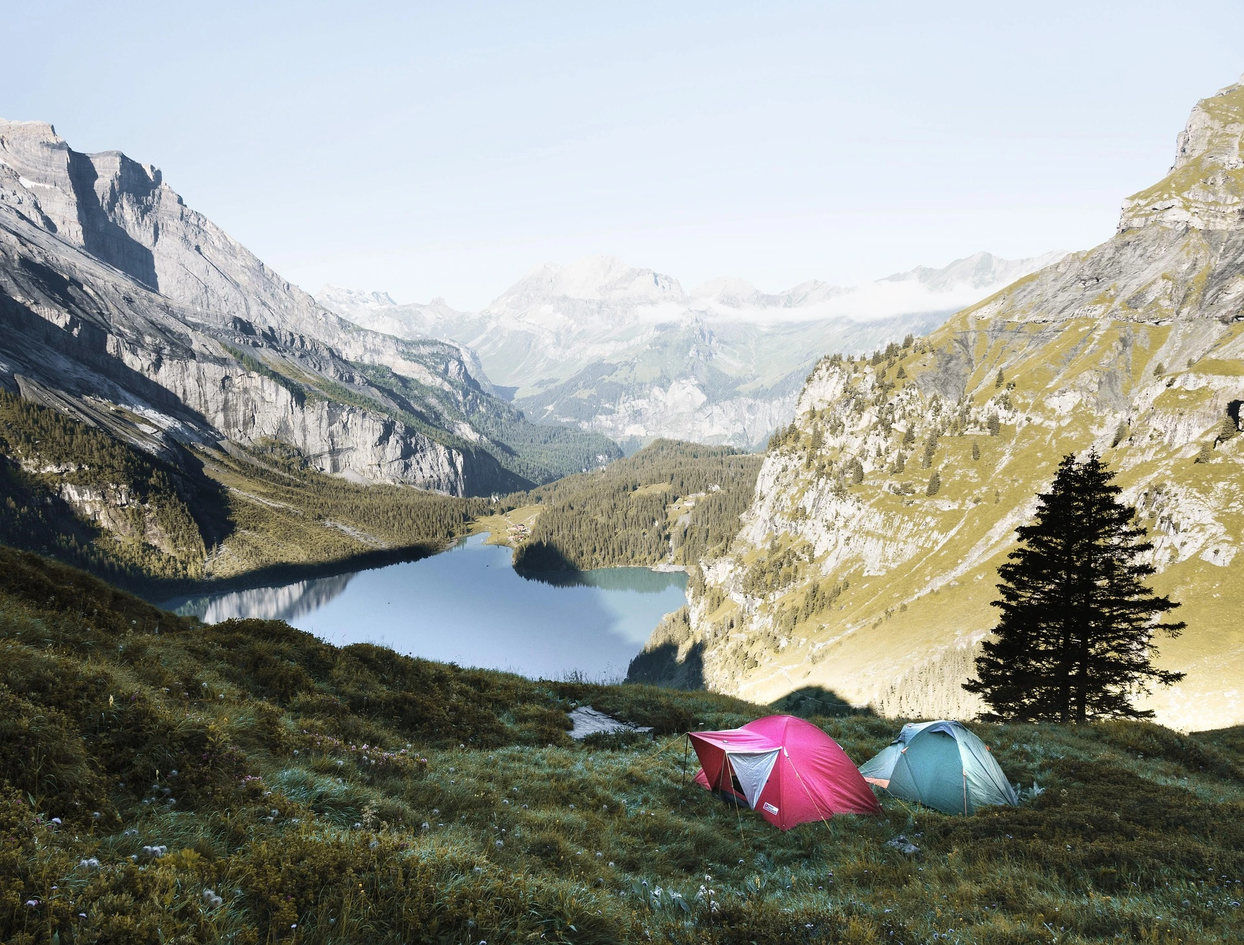
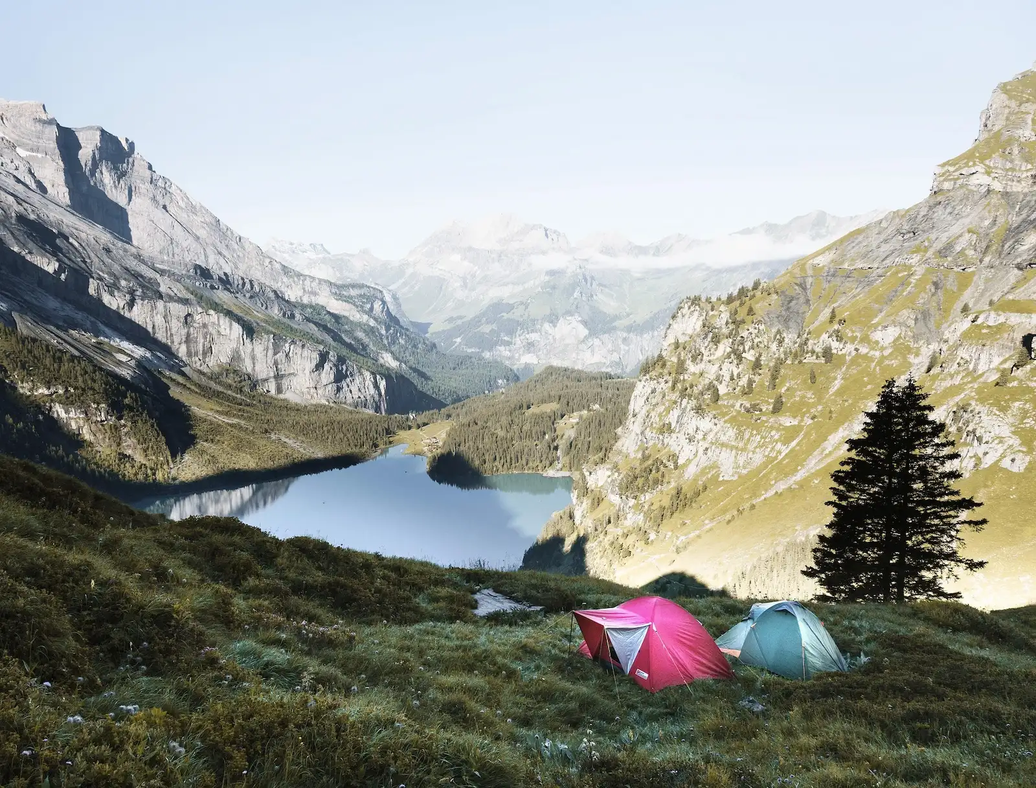
Converted images to WEBP and reduced sizes

Changed region(s): [[0.8125, 0.4688, 0.9375, 0.7812], [0.7812, 0.6875, 0.8438, 0.75]]

diff --git a/prepare.html b/prepare.html
@@ -4,12 +4,15 @@
 <head>
     <meta charset="UTF-8">
     <meta name="viewport" content="width=device-width, initial-scale=1.0">
+    <!-- Preconnect third-party origins -->
+    <link rel="preconnect" href="https://cdn.jsdelivr.net" crossorigin>
+    <link rel="preconnect" href="https://ka-f.fontawesome.com" crossorigin>
     <!-- Boost SEO -->
     <meta name="description"
   content="Beginner-friendly camping guide for first-time campers in the UK. Learn what to pack, campsite rules, and how to prepare.">
     <title>Go Camping / Home</title>
     <!-- Favicon -->
-    <link rel="icon" type="img/png" href="assets/logo/favicon-96x96.png">
+    <link rel="icon" type="img/webp" href="assets/logo/favicon-96x96.webp">
 
     <!-- Bootstrap CSS link -->
     <link href="https://cdn.jsdelivr.net/npm/bootstrap@5.3.8/dist/css/bootstrap.min.css" rel="stylesheet"
@@ -27,7 +30,7 @@
             <div class="container">
                 <!-- Make the logo a link to the home page -->
                 <a class="navbar-brand" href="index.html">
-                    <img src="assets/logo/Go_Camping_logo.png" alt="Go Camping logo" width="52"
+                    <img src="assets/logo/Go_Camping_logo_52x52.webp" alt="Go Camping logo" width="52"
                         class="d-inline-block align-text-top">
                 </a>
                 <button class="navbar-toggler" type="button" data-bs-toggle="collapse" data-bs-target="#navbarNav"
@@ -69,7 +72,7 @@
                 <div class="carousel-inner hero text_shadow">
                     <!-- Carousel item 1 -->
                     <div class="carousel-item active">
-                        <img src="assets/img/carousel-1.webp" class="d-block w-100" loading="eager" alt="Man relaxing in a hammock">
+                        <img src="assets/img/carousel-1-1200px.webp" width="400" height="600" class="d-block w-100" loading="lazy" alt="Man relaxing in a hammock">
                         <div class="carousel-caption d-flex flex-column justify-content-center align-items-center h-100">
                             <h2>Plan Your Perfect Camping Trip</h2>
                             <p>We will help you plan with confidence.</p>
@@ -77,7 +80,7 @@
                     </div>
                     <!-- Carousel item 2 -->
                     <div class="carousel-item">
-                        <img src="assets/img/carousel-2.webp" class="d-block w-100" alt="Tents on a camping site">
+                        <img src="assets/img/carousel-2-1200px.webp" width="400" height="600" class="d-block w-100" alt="Tents on a camping site">
                         <div class="carousel-caption d-flex flex-column justify-content-center align-items-center h-100">
                             <h2>Pack Smart, Camp Better</h2>
                             <p>Everything you need to know about gear, food, and safety—so nothing gets left
@@ -86,7 +89,7 @@
                     </div>
                     <!-- Carousel item 3 -->
                     <div class="carousel-item">
-                        <img src="assets/img/carousel-3.webp" class="d-block w-100" alt="Tent on the beach">
+                        <img src="assets/img/carousel-3-1200px.webp" width="400" height="600" class="d-block w-100" alt="Tent on the beach">
                         <div class="carousel-caption d-flex flex-column justify-content-center align-items-center h-100">
                             <h2>Discover the Best Spots</h2>
                             <p>From hidden gems to popular campsites, find places that match your adventure

diff --git a/index.html b/index.html
@@ -4,12 +4,15 @@
 <head>
     <meta charset="UTF-8">
     <meta name="viewport" content="width=device-width, initial-scale=1.0">
+    <!-- Preconnect third-party origins -->
+    <link rel="preconnect" href="https://cdn.jsdelivr.net" crossorigin>
+    <link rel="preconnect" href="https://ka-f.fontawesome.com" crossorigin>
     <!-- Boost SEO -->
     <meta name="description"
   content="Beginner-friendly camping guide for first-time campers in the UK. Learn what to pack, campsite rules, and how to prepare.">
     <title>Go Camping / Home</title>
     <!-- Favicon -->
-    <link rel="icon" type="img/png" href="assets/logo/favicon-96x96.png">
+    <link rel="icon" type="img/webp" href="assets/logo/favicon-96x96.webp">
     <!-- Bootstrap CSS link -->
     <link href="https://cdn.jsdelivr.net/npm/bootstrap@5.3.8/dist/css/bootstrap.min.css" rel="stylesheet"
         integrity="sha384-sRIl4kxILFvY47J16cr9ZwB07vP4J8+LH7qKQnuqkuIAvNWLzeN8tE5YBujZqJLB" crossorigin="anonymous">
@@ -31,7 +34,7 @@
             <div class="container">
                 <!-- Make the logo a link to the home page -->
                 <a class="navbar-brand" href="index.html">
-                    <img src="assets/logo/Go_Camping_logo.png" loading="eager" alt="Go Camping logo" width="52"
+                    <img src="assets/logo/Go_Camping_logo_52x52.webp" loading="eager" alt="Go Camping logo" width="52"
                         class="d-inline-block align-text-top">
                 </a>
                 <button class="navbar-toggler" type="button" data-bs-toggle="collapse" data-bs-target="#navbarNav"

diff --git a/advice.html b/advice.html
@@ -4,12 +4,15 @@
 <head>
     <meta charset="UTF-8">
     <meta name="viewport" content="width=device-width, initial-scale=1.0">
+    <!-- Preconnect third-party origins -->
+    <link rel="preconnect" href="https://cdn.jsdelivr.net" crossorigin>
+    <link rel="preconnect" href="https://ka-f.fontawesome.com" crossorigin>
     <!-- Boost SEO -->
     <meta name="description"
   content="Beginner-friendly camping guide for first-time campers in the UK. Learn what to pack, campsite rules, and how to prepare.">
     <title>Go Camping / Home</title>
     <!-- Favicon -->
-    <link rel="icon" type="img/png" href="assets/logo/favicon-96x96.png">
+    <link rel="icon" type="img/webp" href="assets/logo/favicon-96x96.webp">
 
     <!-- Bootstrap CSS link -->
     <link href="https://cdn.jsdelivr.net/npm/bootstrap@5.3.8/dist/css/bootstrap.min.css" rel="stylesheet"
@@ -27,7 +30,7 @@
             <div class="container">
                 <!-- Make the logo a link to the home page -->
                 <a class="navbar-brand" href="index.html">
-                    <img src="assets/logo/Go_Camping_logo.png" alt="Go Camping logo" width="52"
+                    <img src="assets/logo/Go_Camping_logo_52x52.webp" alt="Go Camping logo" width="52"
                         class="d-inline-block align-text-top">
                 </a>
                 <button class="navbar-toggler" type="button" data-bs-toggle="collapse" data-bs-target="#navbarNav"

diff --git a/places.html b/places.html
@@ -4,12 +4,15 @@
 <head>
     <meta charset="UTF-8">
     <meta name="viewport" content="width=device-width, initial-scale=1.0">
+    <!-- Preconnect third-party origins -->
+    <link rel="preconnect" href="https://cdn.jsdelivr.net" crossorigin>
+    <link rel="preconnect" href="https://ka-f.fontawesome.com" crossorigin>
     <!-- Boost SEO -->
     <meta name="description"
   content="Beginner-friendly camping guide for first-time campers in the UK. Learn what to pack, campsite rules, and how to prepare.">
     <title>Go Camping / Home</title>
     <!-- Favicon -->
-    <link rel="icon" type="img/png" href="assets/logo/favicon-96x96.png">
+    <link rel="icon" type="img/webp" href="assets/logo/favicon-96x96.webp">
 
     <!-- Bootstrap CSS link -->
     <link href="https://cdn.jsdelivr.net/npm/bootstrap@5.3.8/dist/css/bootstrap.min.css" rel="stylesheet"
@@ -27,7 +30,7 @@
             <div class="container">
                 <!-- Make the logo a link to the home page -->
                 <a class="navbar-brand" href="index.html">
-                    <img src="assets/logo/Go_Camping_logo.png" alt="Go Camping logo" width="52"
+                    <img src="assets/logo/Go_Camping_logo_52x52.webp" alt="Go Camping logo" width="52"
                         class="d-inline-block align-text-top">
                 </a>
                 <button class="navbar-toggler" type="button" data-bs-toggle="collapse" data-bs-target="#navbarNav"

diff --git a/assets/css/styles.css b/assets/css/styles.css
@@ -50,9 +50,9 @@ main {
 
 #main-home {
     background:
-        linear-gradient(to right, rgba(0, 0, 0, 0.2), rgba(0, 0, 0, 0.8)),
+        linear-gradient(to right, rgba(0, 0, 0, 0.4), rgba(0, 0, 0, 0.9)),
         url("../img/hero-image-1.webp") left bottom / cover no-repeat fixed;
-}
+}   
 
 /* ============================================ */
 /* Navbar */
